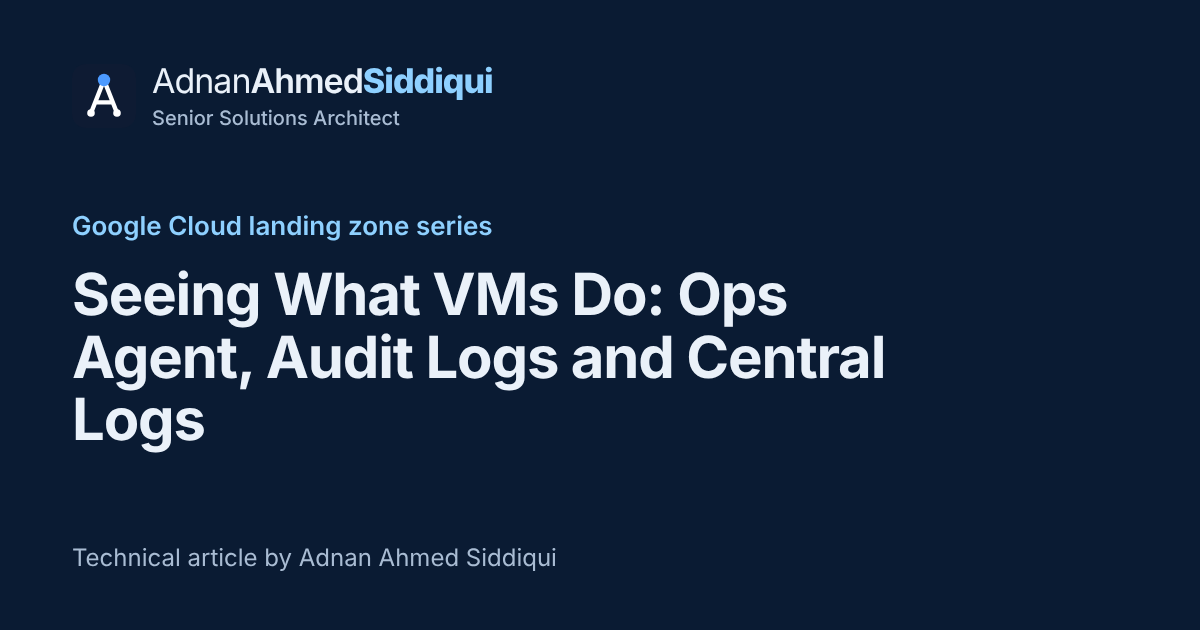
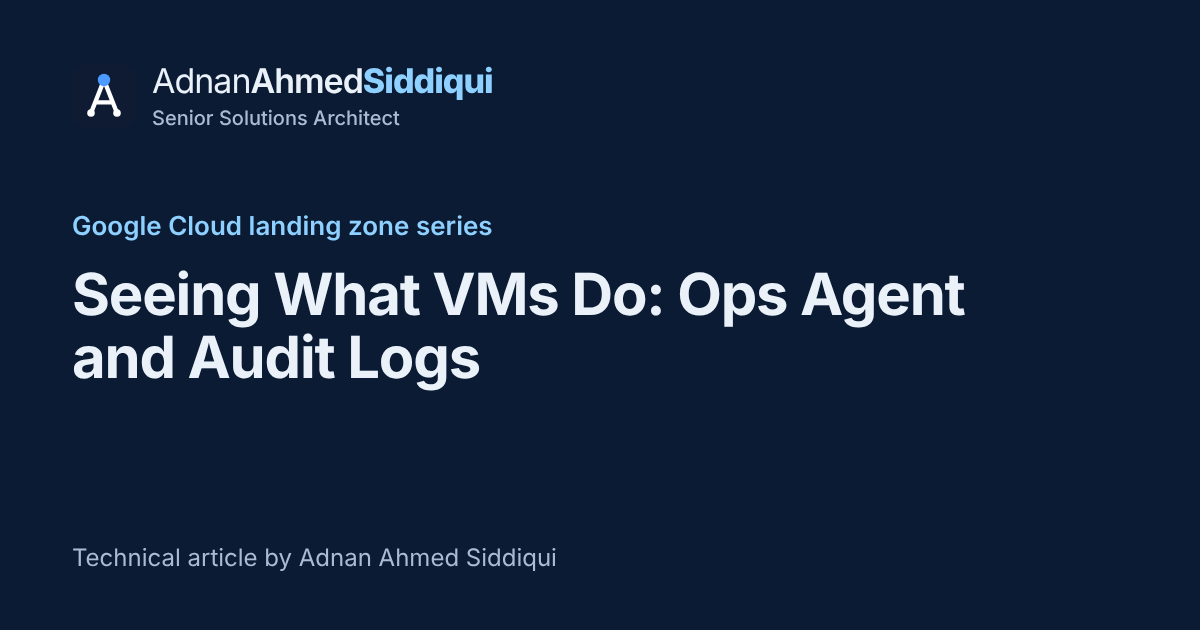
Tighten GCP series: sources, logging post title, VM org policies, IAP rule

Changed region(s): [[0.0617, 0.4222, 0.8017, 0.7238]]

diff --git a/src/posts/gcp-07-compute-engine-in-a-landing-zone.md b/src/posts/gcp-07-compute-engine-in-a-landing-zone.md
@@ -19,7 +19,6 @@ It does not cover how people sign in to a VM. That is in [Reaching a Compute Eng
 | IAM role | Explained in [Who Can Sign In to Google Cloud: Identities, Groups and Roles](/google-cloud/identities-groups-and-roles/). |
 | Editor role | A basic role. Explained in [Who Can Sign In to Google Cloud: Identities, Groups and Roles](/google-cloud/identities-groups-and-roles/). |
 | Organization and project | Explained in [Organization, Folders and Projects](/google-cloud/organization-folders-and-projects/). |
-| Compute Engine | A Google Cloud infrastructure as a service (IaaS) product that offers self-managed virtual machine (VM) instances. |
 | Shared VPC | Allows an organization to connect resources from multiple projects to a common VPC network. |
 | Shared VPC network | A network defined in a host project and made available as a centrally shared network. |
 | Host project | A project that contains one or more Shared VPC networks. |
@@ -39,6 +38,8 @@ It does not cover how people sign in to a VM. That is in [Reaching a Compute Eng
 | `cloud-platform` scope | The full access scope. With it set, the IAM roles of the service account decide what the VM can do. |
 | Application Default Credentials | A way for your code to authenticate with the attached service account. |
 | Organization policy constraint | Explained in [Google Cloud Guardrails: Organization Policies and Security Decisions](/google-cloud/organization-policies-and-guardrails/). |
+| Managed constraint | Explained in [Google Cloud Guardrails: Organization Policies and Security Decisions](/google-cloud/organization-policies-and-guardrails/). |
+| OS Login | A way to control who can sign in to a Linux VM with IAM roles instead of SSH keys. Explained in [Reaching a Compute Engine VM: OS Login, IAM Roles and IAP](/google-cloud/reaching-a-vm-os-login-and-iap/). |
 
 ## A VM lives in a service project
 
@@ -91,7 +92,7 @@ Service agents are created and managed by Google Cloud. You cannot attach a serv
 
 ## Organization policies that touch a VM
 
-These three constraints can affect a VM. The wider set of guardrails is in [Google Cloud Guardrails: Organization Policies and Security Decisions](/google-cloud/organization-policies-and-guardrails/).
+These three constraints affect where a VM can attach and which permissions its default service account gets. Other constraints affect a new VM or its project; they follow the table. The wider set of guardrails is in [Google Cloud Guardrails: Organization Policies and Security Decisions](/google-cloud/organization-policies-and-guardrails/).
 
 | Constraint | What it does |
 |---|---|
@@ -101,9 +102,19 @@ These three constraints can affect a VM. The wider set of guardrails is in [Goog
 
 The two Shared VPC constraints apply to new attachments and new resources. Existing attachments, and existing VMs in a subnet that a policy now blocks, are not changed.
 
+These constraints can affect a new VM or its project:
+
+| Constraint | What it does |
+|---|---|
+| `compute.managed.vmExternalIpAccess` | Defines whether Compute Engine VM instances are allowed to use IPv4 external IP addresses. |
+| `compute.managed.requireOsLogin` | When enforced, requires OS Login on all newly created projects. On new and existing projects, it prevents metadata updates that disable OS Login. |
+| `compute.requireShieldedVm` | When enforced, requires that all new Compute Engine VM instances use the Shielded VM options (extra protection settings for a VM). Existing running instances continue to work as usual. |
+
+If a new VM is refused, or an update that disables OS Login fails, check these along with the Shared VPC constraints.
+
 ## What a VM needs, in one view
 
-![An organization contains a host project and a service project, which a Shared VPC Admin attaches to the host project. The host project holds a Shared VPC network with a shared subnet, and the firewall rules. The service project holds a VM instance that gets its internal IP from the subnet, is subject to the firewall rules and runs as an attached service account. Three organization policy constraints apply.](/img/google-cloud/google-cloud-compute-engine-in-a-landing-zone.svg)
+![An organization contains a host project and a service project, which a Shared VPC Admin attaches to the host project. The host project holds a Shared VPC network with a shared subnet, and the firewall rules. The service project holds a VM instance that gets its internal IP from the subnet, is subject to the firewall rules and runs as an attached service account. Three organization policy constraints that affect attachment and the default service account apply.](/img/google-cloud/google-cloud-compute-engine-in-a-landing-zone.svg)
 
 *Source: [Shared VPC](https://docs.cloud.google.com/vpc/docs/shared-vpc) and [Service accounts](https://docs.cloud.google.com/compute/docs/access/service-accounts).*
 
@@ -129,8 +140,6 @@ The two Shared VPC constraints apply to new attachments and new resources. Exist
 
 ## How to check this in your own project
 
-Compute Engine resources can be managed in the Google Cloud console, with the Google Cloud CLI or through the REST API.
-
 1. Find the project the VM is in. Check that it is attached to a host project as a service project.
 2. Find the subnet the VM uses. Check that it is a shared subnet from the host project, and that the VM is in the subnet's region.
 3. Check that the VM's internal IP address is from that subnet's address range.
@@ -140,11 +149,12 @@ Compute Engine resources can be managed in the Google Cloud console, with the Go
 7. Check the access scopes on the VM. The recommended setting is `cloud-platform`. If the scopes are narrower, the VM can be blocked even when its service account has the role.
 8. Look in the host project, or ask someone who has the Security Admin role there, which firewall rules apply to the VM's network.
 9. If a Shared VPC subnet is refused for a new VM, ask whether `compute.restrictSharedVpcSubnetworks` or `compute.restrictSharedVpcHostProjects` is set, and whether the Service Project Admin has the Network User role on the subnet.
+10. If a new VM is refused, check the constraints in the second table. Ask whether `compute.managed.vmExternalIpAccess`, `compute.managed.requireOsLogin` or `compute.requireShieldedVm` is set on the project.
 
-For the next steps, see [Reaching a Compute Engine VM: OS Login, IAM Roles and IAP](/google-cloud/reaching-a-vm-os-login-and-iap/) and [Seeing What VMs Do: Ops Agent, Audit Logs and Central Logs](/google-cloud/vm-logging-and-monitoring/).
+For the next steps, see [Reaching a Compute Engine VM: OS Login, IAM Roles and IAP](/google-cloud/reaching-a-vm-os-login-and-iap/) and [Seeing What VMs Do: Ops Agent and Audit Logs](/google-cloud/vm-logging-and-monitoring/).
 
 ## Sources
 
-- [Compute Engine overview](https://docs.cloud.google.com/compute/docs/how-to)
 - [Shared VPC](https://docs.cloud.google.com/vpc/docs/shared-vpc)
 - [Service accounts (Compute Engine)](https://docs.cloud.google.com/compute/docs/access/service-accounts)
+- [Organization policy constraints](https://docs.cloud.google.com/resource-manager/docs/organization-policy/org-policy-constraints)

diff --git a/src/posts/gcp-08-reaching-a-vm-os-login-and-iap.md b/src/posts/gcp-08-reaching-a-vm-os-login-and-iap.md
@@ -26,7 +26,7 @@ To see where VMs sit in the wider design, read [Compute Engine in a Google Cloud
 | POSIX account | The POSIX information that OS Login sets up for your Google account: a username, a user ID (UID), a group ID (GID) and a home directory. |
 | Identity-Aware Proxy (IAP) | The Google Cloud service whose TCP forwarding feature lets you reach VMs that do not have external IP addresses. |
 | IAP TCP forwarding | An encrypted tunnel over which you can forward SSH, RDP and other traffic to VMs, including VMs that have no external IP address or do not permit direct access over the internet. |
-| Firewall rule | A rule that applies to the VMs you want to reach through IAP and allows ingress (incoming) traffic from the IAP IP range. |
+| Firewall rule | A rule that applies to the VMs you want to reach through IAP and allows ingress (incoming) traffic from the IAP IP range. Firewall rules and policies are explained in [Firewalls and Internet Access](/google-cloud/firewalls-and-internet-access/). |
 
 ## What OS Login does
 
@@ -107,13 +107,13 @@ The arrows marked "request" show the path of the connection. The firewall rule i
 
 ### 1. A firewall rule that lets IAP in
 
-This is the same IAP rule that appears in the blueprint table in [Firewalls and Internet Access](/google-cloud/firewalls-and-internet-access/), not a second one. Create a firewall rule that:
+Check first whether your landing zone already has a rule that does this. Where firewall rules are kept is explained in [Firewalls and Internet Access](/google-cloud/firewalls-and-internet-access/), and who manages them in [Compute Engine in a Google Cloud Landing Zone: Where VMs Live](/google-cloud/compute-engine-in-a-landing-zone/). If there is none, you need a rule that:
 
 - applies to all VMs that you want to reach through IAP (in the console, set Target to "All instances in the network"),
 - allows incoming (ingress) traffic from the IP range `35.235.240.0/20` (for IPv6 VMs, `2600:2d00:1:7::/64`), and
 - allows connections to the ports you want to reach through IAP, for example port 22 for SSH and port 3389 for RDP. A port is the number after `tcp:` in a rule; it says which service on the VM the traffic is for.
 
-The `35.235.240.0/20` range is the IAP range. It contains all the IP addresses that IAP uses for TCP forwarding. An example rule is named `allow-ssh-ingress-from-iap` with `--direction=INGRESS`, `--action=allow`, `--rules=tcp:22` and `--source-ranges=35.235.240.0/20`.
+The `35.235.240.0/20` range is the IAP range. It contains all the IP addresses that IAP uses for TCP forwarding. As a VPC firewall rule, an example is named `allow-ssh-ingress-from-iap` with `--direction=INGRESS`, `--action=allow`, `--rules=tcp:22` and `--source-ranges=35.235.240.0/20`.
 
 The default rules `default-allow-ssh` and `default-allow-rdp` allow SSH and RDP from all IP addresses, not only from IAP. Consider disabling or deleting them if you want to prevent direct SSH or RDP access to your VMs.
 
@@ -176,14 +176,14 @@ You can also use the SSH button in the Google Cloud console. For other TCP-based
 
 1. Confirm OS Login is on: `enable-oslogin` is set to `TRUE` in instance metadata (the VM) or project metadata.
 2. For each engineer or group, confirm that you granted `roles/compute.osLogin` or `roles/compute.osAdminLogin` (on the project or instance; on the project if they use the console or gcloud), `roles/iap.tunnelResourceAccessor` on the project or the VM, and, if the VM has a service account, `roles/iam.serviceAccountUser` on that service account.
-3. Open the Firewall Rules page. Confirm that a rule allows ingress on `tcp:22` (and `tcp:3389` for RDP, if you use it) from `35.235.240.0/20`. Check whether `default-allow-ssh` and `default-allow-rdp` still exist.
+3. Find the firewall rule (see [Firewalls and Internet Access](/google-cloud/firewalls-and-internet-access/) for where rules are kept). Confirm that a rule allows ingress on `tcp:22` (and `tcp:3389` for RDP, if you use it) from `35.235.240.0/20`. Check whether `default-allow-ssh` and `default-allow-rdp` still exist.
 4. As an engineer with `roles/compute.osLogin` and `roles/iap.tunnelResourceAccessor` (plus `roles/iam.serviceAccountUser` if the VM has a service account), run `gcloud compute ssh INSTANCE_NAME --zone=ZONE --tunnel-through-iap`. Check that login works. On the VM, try a command with `sudo`. If the role does what its description says, you do not get administrator access.
 5. Repeat with a person who has `roles/compute.osAdminLogin`, `roles/iap.tunnelResourceAccessor` and, if needed, `roles/iam.serviceAccountUser`. On the VM, `sudo` is expected to work (administrator access).
 6. On the VM, run `whoami`. The username is expected to follow the `USERNAME_DOMAIN_SUFFIX` format, or start with `ext_` for a user from a different organization than the VM.
 7. Remove a role and try again. Google checks permissions for every login attempt, so the login should fail.
 8. Review the service account attached to each VM. Everyone who can log in can use its permissions.
 
-Next: [Seeing What VMs Do: Ops Agent, Audit Logs and Central Logs](/google-cloud/vm-logging-and-monitoring/).
+Next: [Seeing What VMs Do: Ops Agent and Audit Logs](/google-cloud/vm-logging-and-monitoring/).
 
 ## Sources
 

diff --git a/src/posts/gcp-01-what-is-a-google-cloud-landing-zone.md b/src/posts/gcp-01-what-is-a-google-cloud-landing-zone.md
@@ -64,7 +64,7 @@ The root node for managing resources is the organization. Below it are folders a
 
 ### Network
 
-The example landing zone uses a Shared VPC network for each environment (production, development and testing). A Shared VPC network connects resources from multiple projects to the VPC network. Multiple service projects are configured to use the Shared VPC networks. These service projects host your application resources. VPC firewall rules control connectivity to and from workloads in the Shared VPC networks. A Cloud NAT gateway allows outbound connections to the internet from resources in these networks. Cloud Interconnect connects on-premises applications and users. A Cloud DNS private zone hosts DNS records for your deployments in Google Cloud. In the blueprint, no outbound traffic to or inbound traffic from the public internet is permitted by default. The network has its own article: [network design with Shared VPC](/google-cloud/network-design-with-shared-vpc/).
+The example landing zone uses a Shared VPC network for each environment (production, development and testing). A Shared VPC network connects resources from multiple projects to the VPC network. Multiple service projects are configured to use the Shared VPC networks. These service projects host your application resources. VPC firewall rules control connectivity to and from workloads in the Shared VPC networks. A Cloud NAT gateway allows outbound connections to the internet from resources in these networks. Cloud Interconnect connects on-premises applications and users. A Cloud DNS private zone hosts DNS records for your deployments in Google Cloud. In the enterprise foundations blueprint, no outbound traffic to or inbound traffic from the public internet is permitted by default. The example landing zone names its environments production, development and testing. The blueprint, described in later articles, names them development, nonproduction and production. The network has its own article: [network design with Shared VPC](/google-cloud/network-design-with-shared-vpc/).
 
 ### Security controls
 

diff --git a/src/posts/gcp-09-vm-logging-and-monitoring.md b/src/posts/gcp-09-vm-logging-and-monitoring.md
@@ -1,5 +1,5 @@
 ---
-title: "Seeing What VMs Do: Ops Agent, Audit Logs and Central Logs"
+title: "Seeing What VMs Do: Ops Agent and Audit Logs"
 layout: post.njk
 permalink: /google-cloud/vm-logging-and-monitoring/
 order: 409
@@ -10,7 +10,7 @@ deck: "Prepare a VM for the Ops Agent, and find out who created or changed a VM 
 
 This article is for people who run virtual machines (VMs) in a Google Cloud landing zone. After reading it you can prepare a VM so the Ops Agent is authorized and can access the logging and monitoring APIs, name the two roles it needs, say what each kind of audit log records, and find out who created or changed a VM. You will also know what happens to some audit logs that are routed to a different project.
 
-It does not cover dashboards or alerts, and it does not walk through installing the agent.
+It does not cover dashboards or alerts, it does not walk through installing the agent, and it does not cover how to route audit logs from many projects.
 
 Compute Engine VMs and their service accounts are covered in [Compute Engine in a Google Cloud Landing Zone: Where VMs Live](/google-cloud/compute-engine-in-a-landing-zone/). How to sign in to a VM is covered in [Reaching a Compute Engine VM: OS Login, IAM Roles and IAP](/google-cloud/reaching-a-vm-os-login-and-iap/). The folders and projects that hold logs are covered in [Google Cloud Organization, Folders and Projects](/google-cloud/organization-folders-and-projects/).
 
@@ -66,6 +66,8 @@ You can also configure it to collect file-based logs, journald (systemd) logs, a
 | Running | `oauth2.googleapis.com`, `monitoring.googleapis.com` and `logging.googleapis.com` |
 
 The agent also uses TCP ports 20201 and 20202 inside the VM. They must be available on the VM. They do not need to be open to the outside.
+
+The install addresses are DNS names that the VM must be able to reach. For how a VM gets internet access in a landing zone, see [Google Cloud Firewalls and Internet Access](/google-cloud/firewalls-and-internet-access/).
 
 ### Where not to install it
 

diff --git a/src/posts/gcp-03-organization-folders-and-projects.md b/src/posts/gcp-03-organization-folders-and-projects.md
@@ -74,7 +74,7 @@ A project sits under the organization or under a folder. A project can be at the
 | Deny policies | Inherited through the hierarchy. Allow policies can be superseded by deny policies, which are applied before allow policies. |
 | Organization policies | Inherited by descendants, but can be superseded by policies defined at a lower level. See [Google Cloud Guardrails: Organization Policies and Security Decisions](/google-cloud/organization-policies-and-guardrails/) for how the result depends on the kind of constraint. |
 | Hierarchical firewall policies | Let you implement consistent firewall policies throughout the organization or in specific folders. Inheritance is implicit, which means that you can allow or deny traffic at any level or you can delegate the decision to a lower level. See [Firewalls and Internet Access](/google-cloud/firewalls-and-internet-access/). |
-| Log aggregation | Cloud Logging includes aggregated sinks that you can use to aggregate logs at the folder or organization level (see [VM Logging and Monitoring](/google-cloud/vm-logging-and-monitoring/)). |
+| Log aggregation | Cloud Logging includes aggregated sinks that you can use to aggregate logs at the folder or organization level. |
 | Billing | Billing is not directly linked to the resource hierarchy, but assigned at the project level. To get aggregated information at the folder level, you can analyze your costs by project hierarchy using billing reports. |
 
 Allow, deny and organization policies are inherited through the hierarchy, so a policy set on a folder applies to what is below it. What allow policies do is covered in [Identities, Groups and Roles](/google-cloud/identities-groups-and-roles/). How a lower-level organization policy combines with an inherited one depends on the kind of constraint, and is covered in [Google Cloud Guardrails: Organization Policies and Security Decisions](/google-cloud/organization-policies-and-guardrails/).
